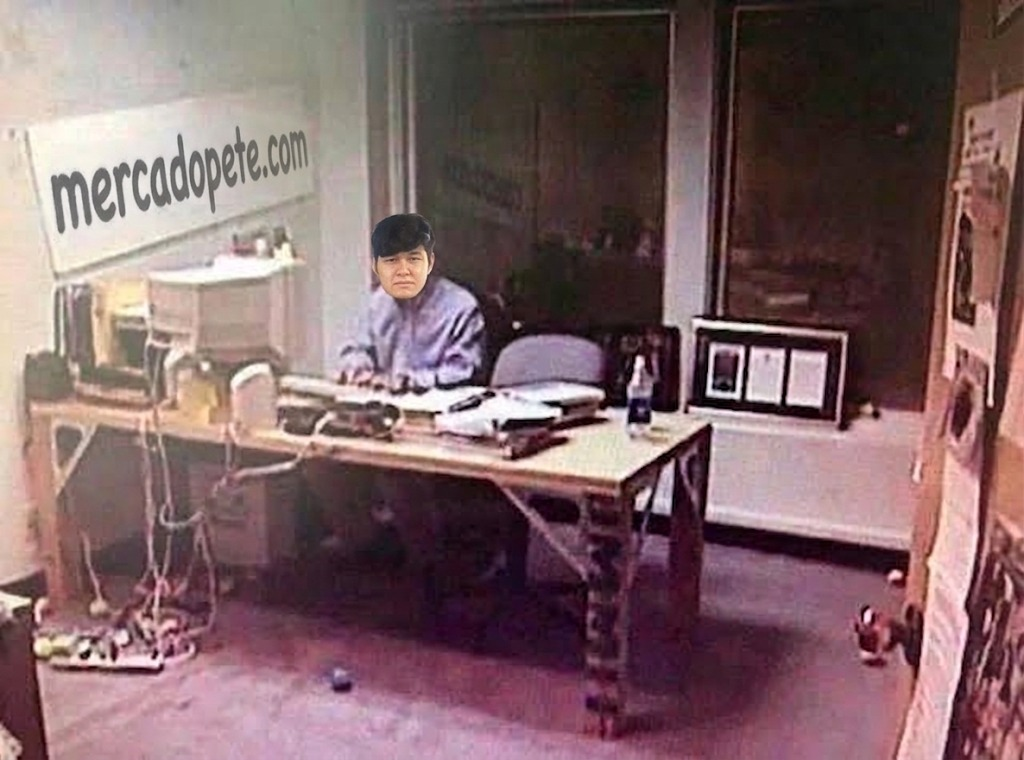
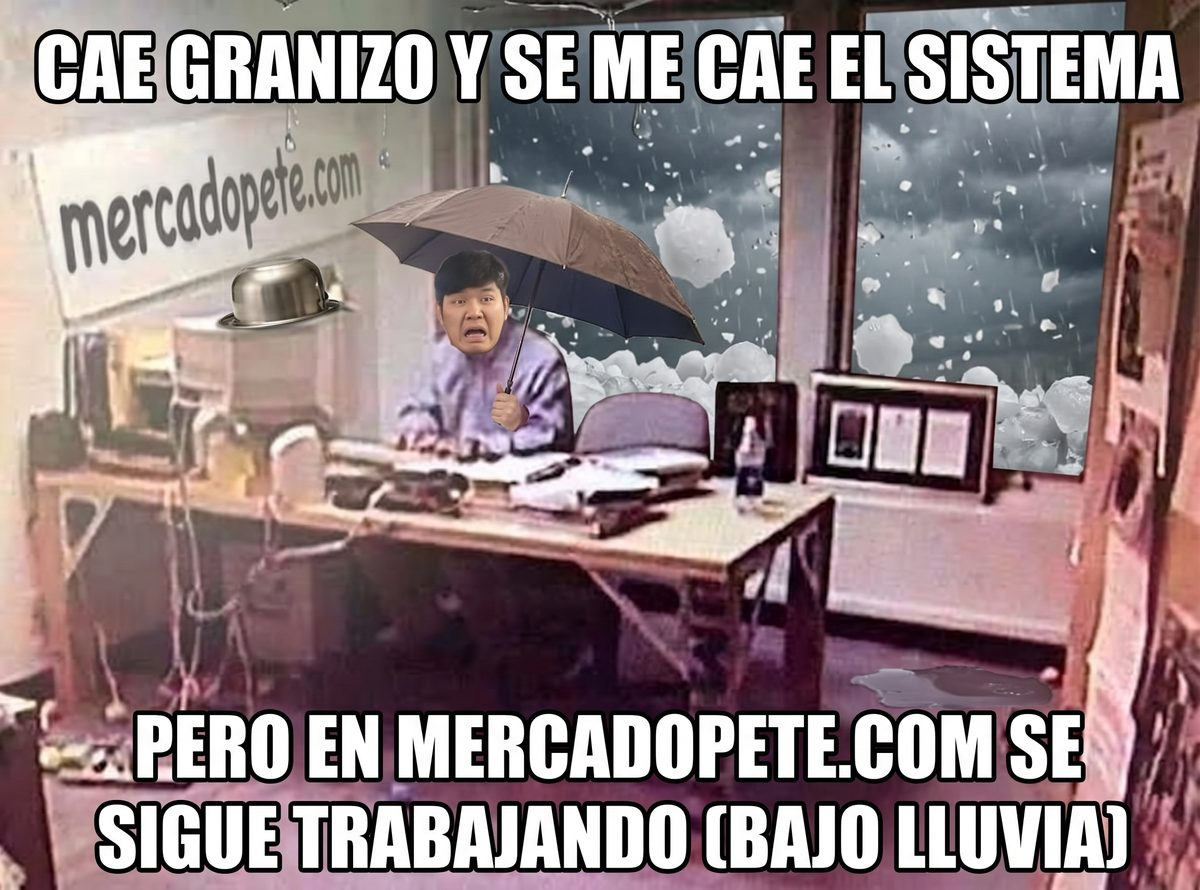
Nueva imagen hero, progreso al 40% y verificación de AdSense

diff --git a/index.html b/index.html
@@ -12,6 +12,8 @@
 <link rel="preconnect" href="https://fonts.googleapis.com">
 <link rel="preconnect" href="https://fonts.gstatic.com" crossorigin>
 <link href="https://fonts.googleapis.com/css2?family=Poppins:wght@600;700;800&family=Inter:wght@400;500;600&display=swap" rel="stylesheet">
+<script async src="https://pagead2.googlesyndication.com/pagead/js/adsbygoogle.js?client=ca-pub-7743903964434808"
+     crossorigin="anonymous"></script>
 <style>
   :root {
     --navy: #39464e;
@@ -345,7 +347,7 @@
         <div class="tape tl" aria-hidden="true"></div>
         <div class="tape tr" aria-hidden="true"></div>
         <div class="frame">
-          <img src="hero.jpg" alt="Equipo trabajando en mercadopete.com.py" loading="eager" />
+          <img src="hero.jpg" alt="Cae granizo y se cae el sistema, pero en mercadopete.com se sigue trabajando bajo la lluvia" loading="eager" />
         </div>
       </div>
       <p class="caption">📸 En vivo desde la oficina de mercadopete.com.py</p>
@@ -375,7 +377,7 @@
   <script>
     document.getElementById('year').textContent = new Date().getFullYear();
 
-    const target = 62;
+    const target = 40;
     const fill = document.getElementById('progressFill');
     const pctLabel = document.getElementById('pct');
     requestAnimationFrame(() => { fill.style.width = target + '%'; });
